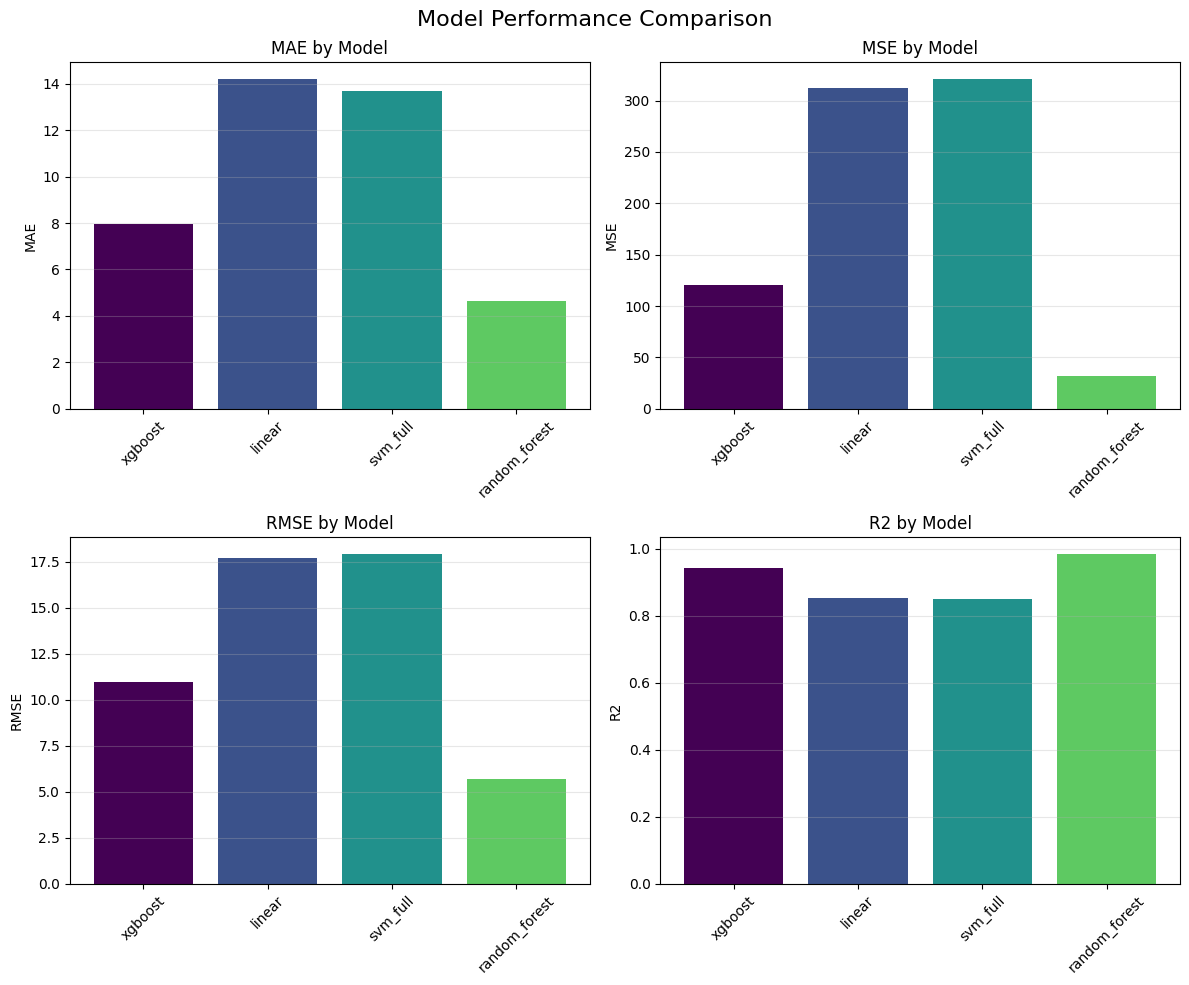
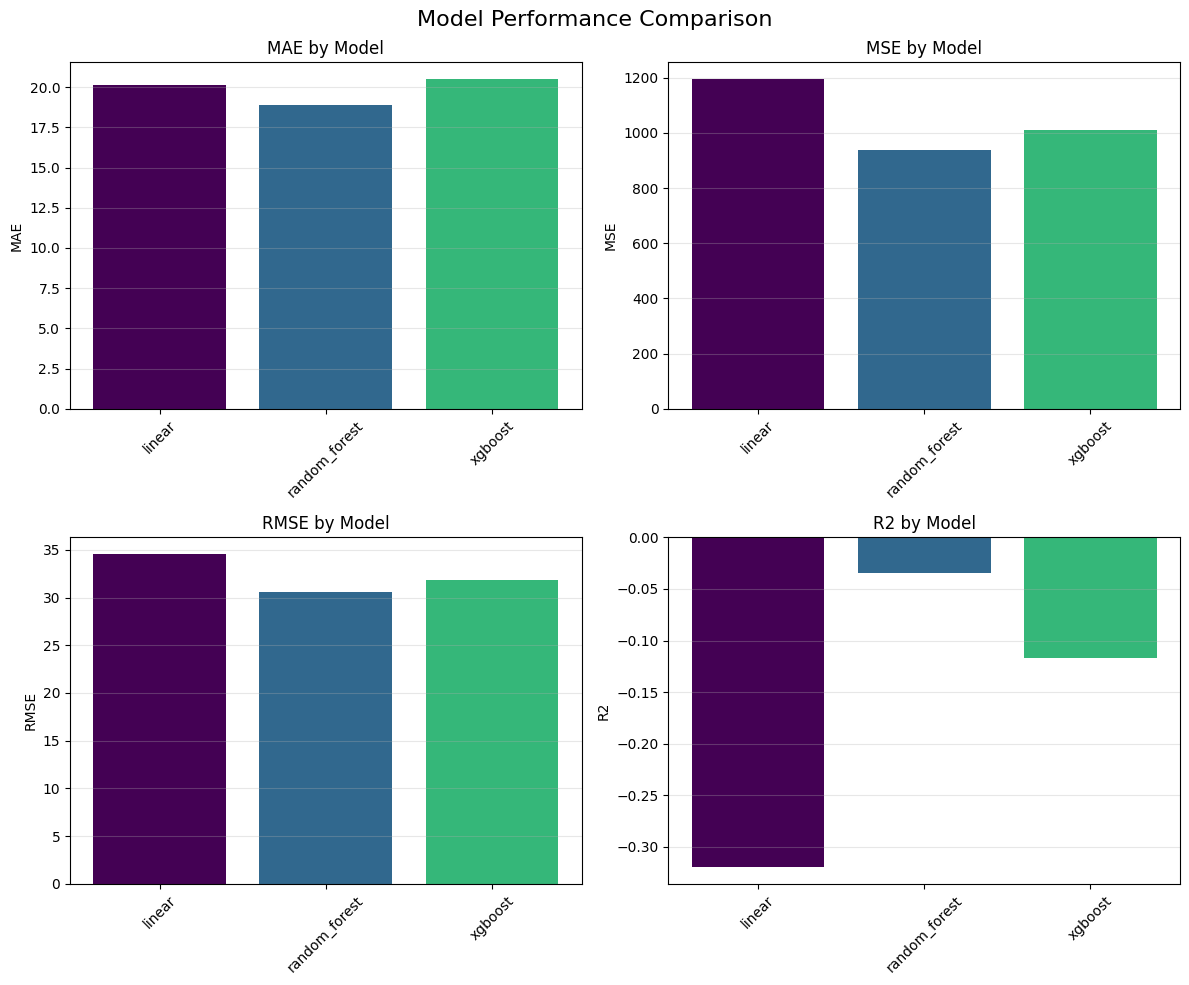
93: fix dvc dataset and update the report ML_PIPELINE (#94)
* fix: update test embedding dim to include engineered features

* feat: improve model via log transform, stale filter, TF-IDF mix and feature engineering

* removed test_prediction.py

* fix: push updated DVC dataset after stale ticket filtering

* fix: remove pinned DVC dataset version to use latest dynamically

* docs: update ML pipeline report with latest model plots

diff --git a/reports/01_ML_PIPELINE.md b/reports/01_ML_PIPELINE.md
@@ -15,7 +15,6 @@ model comparison plots, sensitivity analysis, SHAP importance, and MLflow promot
 
 ### Model Analysis Plots
 
-TODO SAMEER REPLACE WITH LATEST PLOTS
 
 ![Overall Model Comparison](./assets/plots-overall-model-comparison.png)
 
